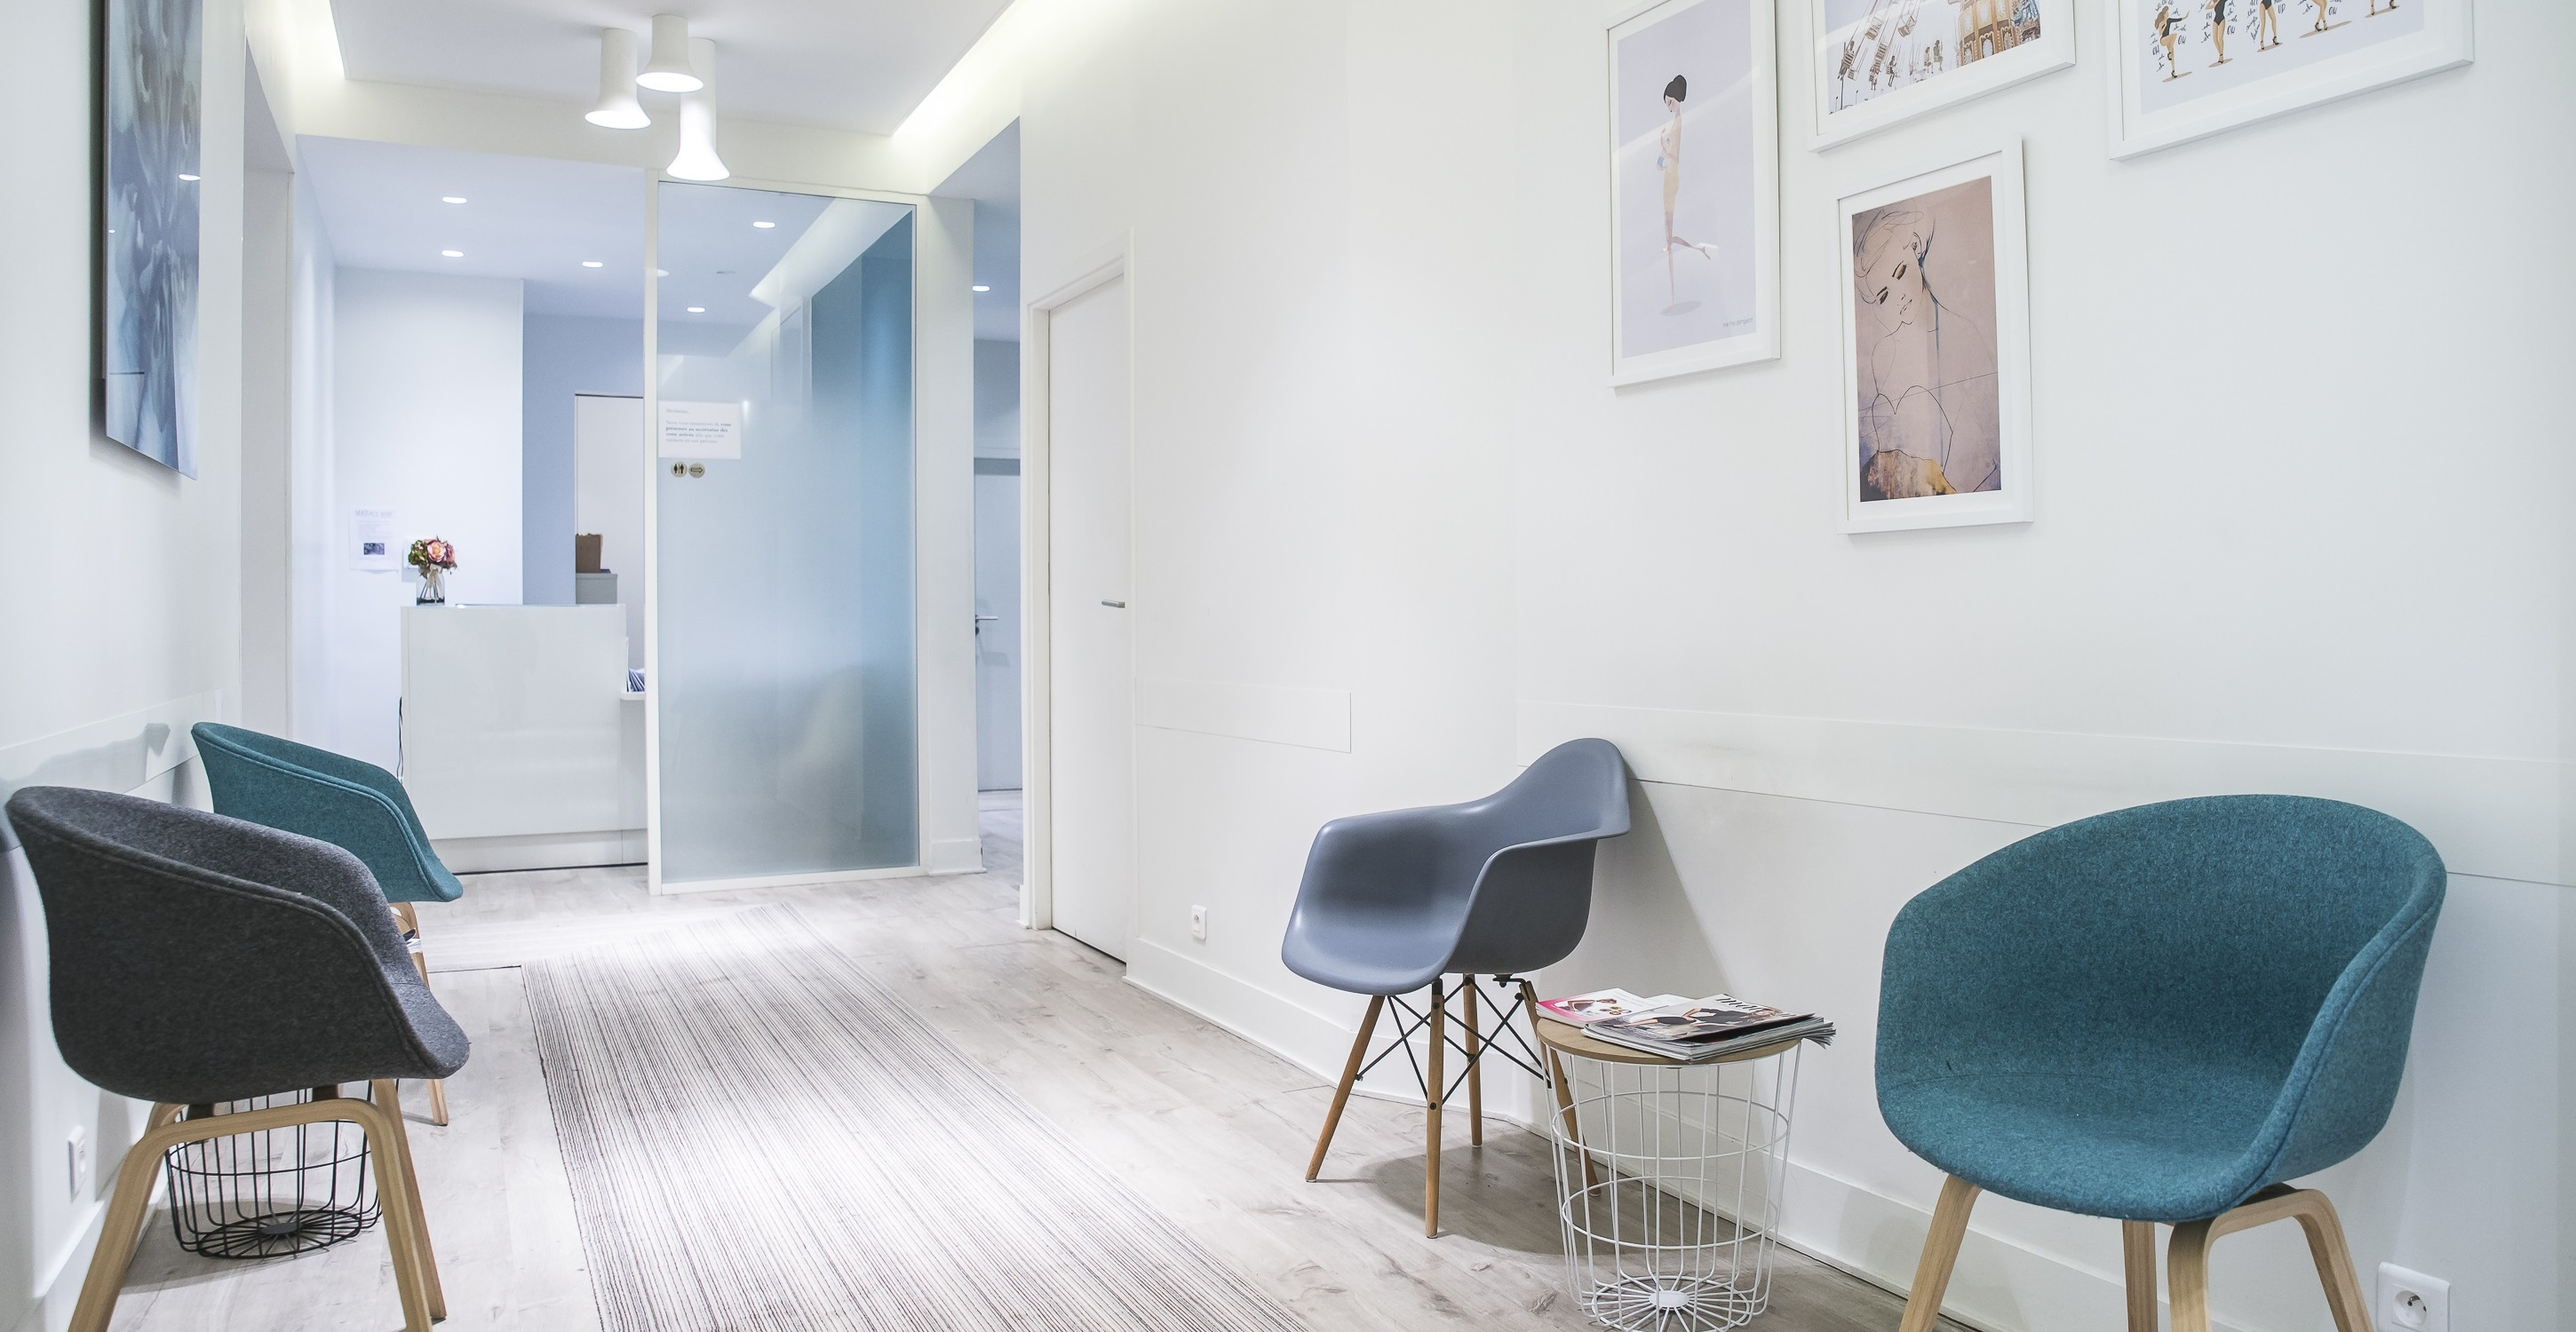
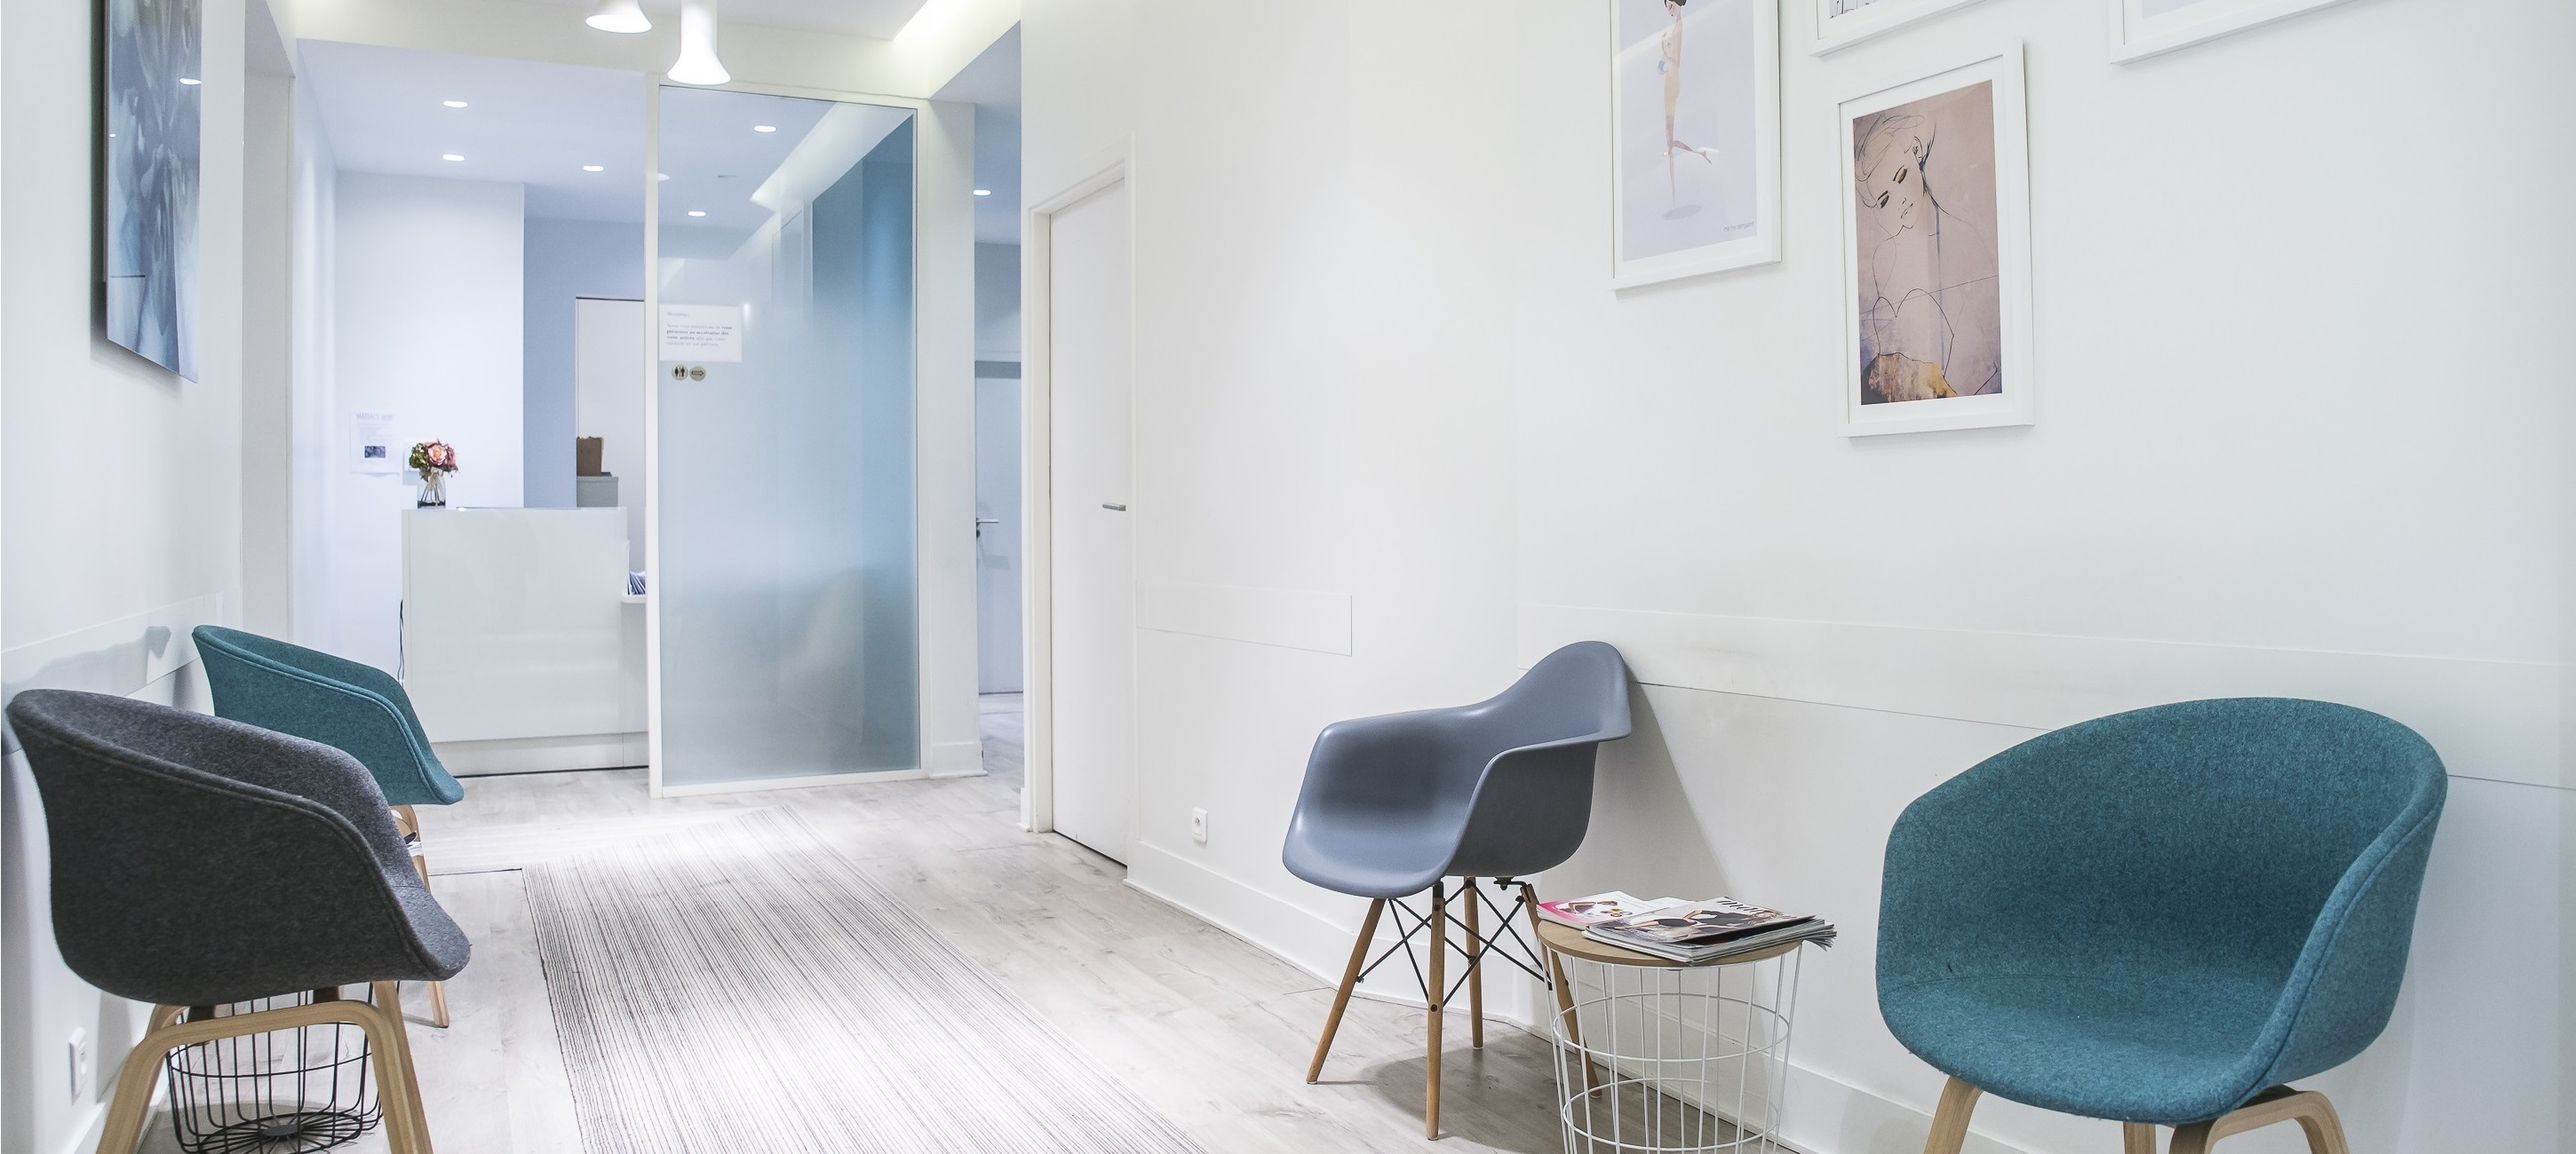
minor fix, pics size, txt size, partener page improve

diff --git a/style.css b/style.css
@@ -16,7 +16,8 @@
 
 @media (min-width: 992px) {
   html {
-    font-size: 0.95vw;
+    /*font-size: 0.95vw;*/
+    font-size: 1.1vw;
   }
 }
 

diff --git a/partenaires/index.php b/partenaires/index.php
@@ -17,7 +17,7 @@
   <!-- NAVBAR -->
   <?php include("../views/navbar.html"); ?>
 
-  <div class="container my-5">
+  <div class="container my-5" style="width:75%;">
     <!-- CLINIQUE MUETTE -->
     <div class="row">
       <div class="col-12">
